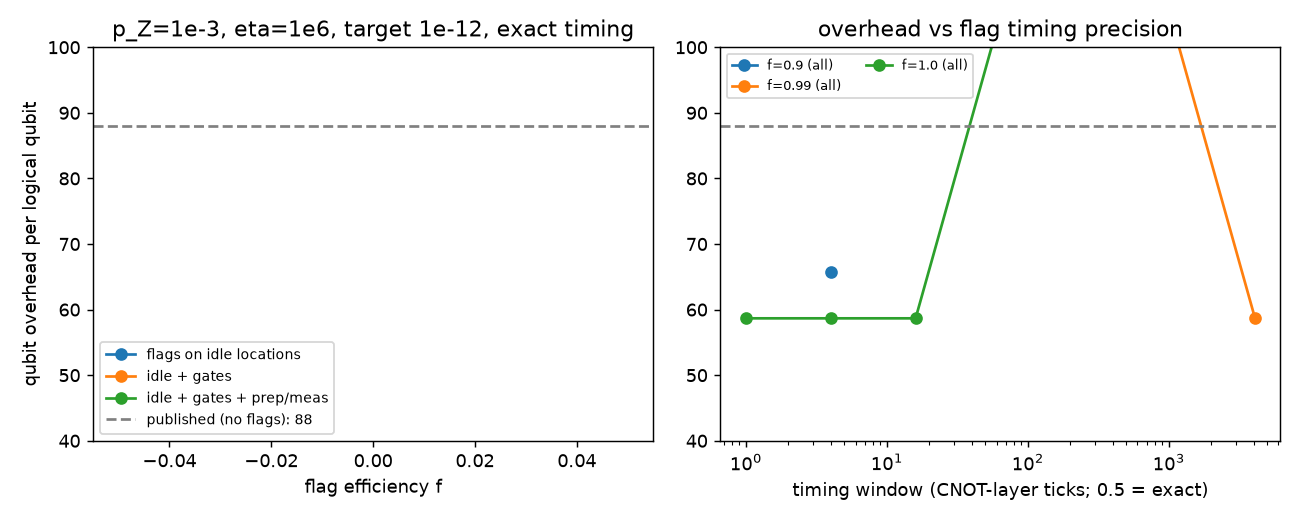
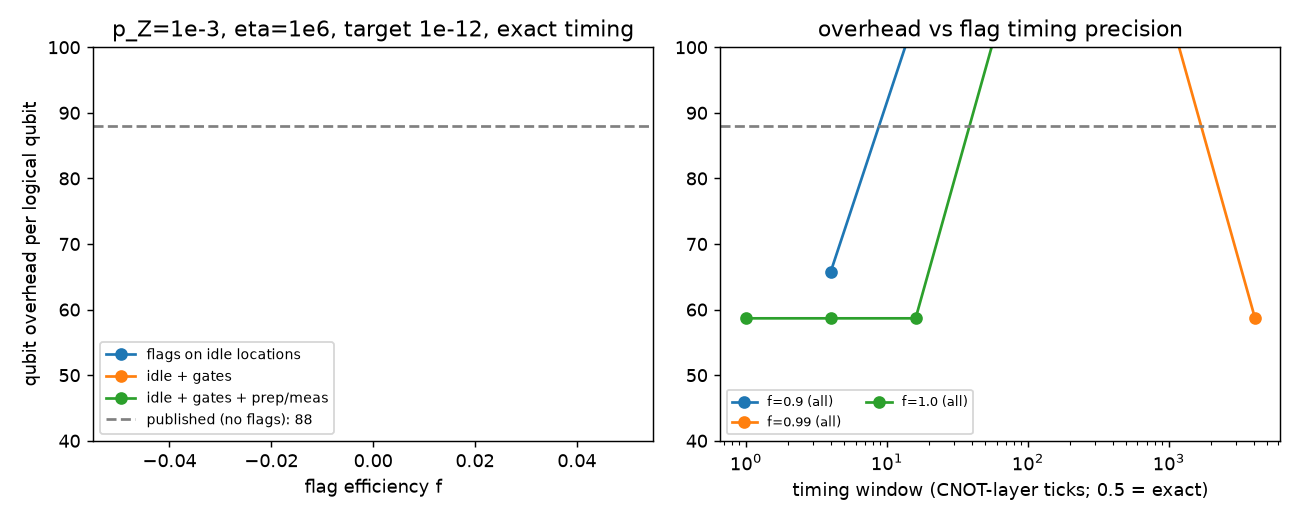
Results and analysis update

Changed region(s): [[0.5538, 0.0923, 0.7692, 0.2154], [0.5538, 0.7385, 0.7385, 0.8615]]

diff --git a/elevator/flags.py b/elevator/flags.py
@@ -424,3 +424,4 @@ class ExclusiveMleDecoder:
                 ywin.append(wi)
         x = mle_solve(self.H, w, det, ycols, ycost, ywin)
         return (self.L @ x) & 1
+

diff --git a/results/summary/frontier_this-work-pZL.md b/results/summary/frontier_this-work-pZL.md
@@ -5,20 +5,22 @@ Non-dominated in (overhead, p_L, flag efficiency f required, flag classes requir
 
 | overhead | code | d_Z | p_L | f | flags on | window (ticks) | false flags |
 |---|---|---|---|---|---|---|---|
-| 51.6 | [15,9,3] | 15 | 3.90e-13 | 1.0 | all | 4096 | 0 |
-| 51.6 | [15,9,3] | 15 | 2.70e-13 | 1.0 | all | 64 | 0 |
-| 51.6 | [15,9,3] | 15 | 3.46e-13 | 1.0 | all | 1024 | 0 |
-| 51.6 | [15,9,3] | 15 | 3.21e-13 | 1.0 | all | 256 | 0 |
-| 58.7 | [15,9,3] | 17 | 2.38e-13 | 0.99 | all | 4096 | 0 |
-| 58.7 | [15,9,3] | 17 | 6.73e-15 | 1.0 | all | 16 | 0 |
+| 51.6 | [15,9,3] | 15 | 9.20e-13 | 0.99 | idle | exact | 0 |
+| 51.6 | [15,9,3] | 15 | 2.01e-13 | 1.0 | all | 4096 | 0 |
+| 51.6 | [15,9,3] | 15 | 8.05e-14 | 1.0 | all | 64 | 0 |
+| 51.6 | [15,9,3] | 15 | 1.57e-13 | 1.0 | all | 1024 | 0 |
+| 51.6 | [15,9,3] | 15 | 1.31e-13 | 1.0 | all | 256 | 0 |
+| 58.7 | [15,9,3] | 17 | 2.33e-13 | 0.99 | all | 4096 | 0 |
+| 58.7 | [15,9,3] | 17 | 1.71e-15 | 1.0 | all | 16 | 0 |
 | 65.8 | [15,9,3] | 19 | 3.21e-13 | 0.9 | all | 4 | 0 |
-| 104.8 | [15,6,5] 2 anc | 19 | 3.02e-16 | 0.9 | all | 1024 | 0 |
-| 104.8 | [15,6,5] 2 anc | 19 | 3.02e-16 | 0.9 | all | 4096 | 0 |
-| 104.8 | [15,6,5] 2 anc | 19 | 3.00e-16 | 0.99 | all | 256 | 0 |
-| 104.8 | [15,6,5] 2 anc | 19 | 3.00e-16 | 0.99 | all | 1024 | 0 |
-| 104.8 | [15,6,5] 2 anc | 19 | 3.01e-16 | 0.99 | all | 4096 | 0 |
-| 104.8 | [15,6,5] 2 anc | 19 | 3.00e-16 | 0.99 | all | 1 | 0 |
-| 104.8 | [15,6,5] 2 anc | 19 | 3.00e-16 | 0.99 | all | 16 | 0 |
-| 104.8 | [15,6,5] 2 anc | 19 | 3.00e-16 | 1.0 | all | 256 | 0 |
-| 104.8 | [15,6,5] 2 anc | 19 | 3.00e-16 | 1.0 | all | 1024 | 0 |
-| 104.8 | [15,6,5] 2 anc | 19 | 3.00e-16 | 1.0 | all | 4096 | 0 |
+| 104.8 | [15,6,5] 2 anc | 19 | 1.73e-16 | 0.9 | all | 16 | 0 |
+| 104.8 | [15,6,5] 2 anc | 19 | 1.74e-16 | 0.9 | all | 1024 | 0 |
+| 104.8 | [15,6,5] 2 anc | 19 | 1.74e-16 | 0.9 | all | 4096 | 0 |
+| 104.8 | [15,6,5] 2 anc | 19 | 1.73e-16 | 0.99 | all | 256 | 0 |
+| 104.8 | [15,6,5] 2 anc | 19 | 1.73e-16 | 0.99 | all | 1024 | 0 |
+| 104.8 | [15,6,5] 2 anc | 19 | 1.73e-16 | 0.99 | all | 4096 | 0 |
+| 104.8 | [15,6,5] 2 anc | 19 | 1.73e-16 | 0.99 | all | 1 | 0 |
+| 104.8 | [15,6,5] 2 anc | 19 | 1.73e-16 | 0.99 | all | 16 | 0 |
+| 104.8 | [15,6,5] 2 anc | 19 | 1.73e-16 | 1.0 | all | 256 | 0 |
+| 104.8 | [15,6,5] 2 anc | 19 | 1.73e-16 | 1.0 | all | 1024 | 0 |
+| 104.8 | [15,6,5] 2 anc | 19 | 1.73e-16 | 1.0 | all | 4096 | 0 |

diff --git a/results/summary/phase_model.md b/results/summary/phase_model.md
@@ -9,7 +9,7 @@ Held-out test: the lowest-rate (largest d_Z) point at each p is left out of the 
 
 | p_Z | d_Z | measured per round [95% CI] | failures | predicted (held out) | ratio |
 |---|---|---|---|---|---|
-| 1.0e-03 | 9 | 1.33e-09 [1.15e-09, 1.53e-09] | 193 | 1.10e-09 | 1.21 |
+| 1.0e-03 | 9 | 1.33e-09 [1.16e-09, 1.53e-09] | 200 | 1.10e-09 | 1.21 |
 | 1.5e-03 | 9 | 8.21e-09 [7.10e-09, 9.50e-09] | 180 | 9.02e-09 | 0.91 |
 | 2.0e-03 | 11 | 1.97e-09 [1.68e-09, 2.31e-09] | 151 | 1.79e-09 | 1.10 |
 | 3.0e-03 | 13 | 1.91e-09 [1.47e-09, 2.47e-09] | 57 | 1.66e-09 | 1.15 |
@@ -57,12 +57,25 @@ All points against the paper's repetition-code fit 0.13 (25.02 p)^(0.99 (d+1)/2)
 
 ### Elevator X memory (noop reading, full sweep, BP+LSD) over (n_b/k) p_rep
 
-log c = -4.188 + -0.635 log p + 0.290 h
+log c = -4.366 + -0.663 log p + 0.298 h
 
 | code | d_Z | p_Z | p_ZL measured [95% CI] | (n_b/k) p_rep | c |
 |---|---|---|---|---|---|
 | 15_9_3 | 9 | 7.0e-03 | 6.93e-05 [6.33e-05, 7.59e-05] | 4.58e-05 | 1.51 |
-| 15_9_3 | 9 | 1.0e-02 | 3.48e-04 [3.33e-04, 3.63e-04] | 2.86e-04 | 1.22 |
+| 15_9_3 | 9 | 1.0e-02 | 3.48e-04 [3.33e-04, 3.63e-04] | 2.86e-04 | 1.21 |
+| 15_9_3 | 9 | 1.0e-02 | 3.10e-04 [2.68e-04, 3.57e-04] | 2.86e-04 | 1.08 |
 | 15_9_3 | 13 | 1.0e-02 | 4.21e-05 [3.60e-05, 4.92e-05] | 2.31e-05 | 1.82 |
-| 15_9_3 | 17 | 1.0e-02 | 8.57e-06 [6.78e-06, 1.08e-05] | 1.87e-06 | 4.60 |
-| 15_9_3 | 21 | 1.0e-02 | 1.26e-06 [4.90e-07, 3.24e-06] | 1.51e-07 | 8.37 |
+| 15_9_3 | 17 | 1.0e-02 | 8.40e-06 [6.78e-06, 1.04e-05] | 1.87e-06 | 4.50 |
+| 15_9_3 | 21 | 1.0e-02 | 1.47e-06 [6.74e-07, 3.21e-06] | 1.51e-07 | 9.77 |
+
+### Ancilla diagnostic: logical-ancilla and logical-operation noise switched off
+
+| d_Z | p_Z | p_ZL ancilla noise off [95% CI] | (n_b/k) p_rep | c without ancilla noise |
+|---|---|---|---|---|
+| 9 | 7.0e-03 | 4.42e-05 [3.77e-05, 5.19e-05] | 4.58e-05 | 0.97 |
+| 9 | 1.0e-02 | 2.78e-04 [2.39e-04, 3.23e-04] | 2.86e-04 | 0.97 |
+| 13 | 1.0e-02 | 2.84e-05 [2.42e-05, 3.32e-05] | 2.31e-05 | 1.23 |
+| 17 | 1.0e-02 | 1.64e-06 [7.49e-07, 3.57e-06] | 1.87e-06 | 0.88 |
+
+Two-component model: p_ZL k = n a p_rep(d,p) + n_anc g p_rep(d, kappa p), a = 1.11, g = 0.15, kappa = 1.82
+

diff --git a/results/summary/flags_main_this-work-pZL.md b/results/summary/flags_main_this-work-pZL.md
@@ -13,8 +13,10 @@ Central estimate (conservative: bit-flip rate at its 95% upper bound) and the ch
 | all | 4 | 0.9 | 0 | 65.8 | [15,9,3], 19 | 3.21e-13 | 65.8 |
 | all | 4 | 0.99 | 0 | 104.8 | [15,6,5] 2 anc, 19 | 1.79e-20 | 104.8 |
 | all | 4 | 1.0 | 0 | 58.7 | [15,9,3], 17 | 0.00e+00 | 58.7 |
+| all | 16 | 0.9 | 0 | 104.8 | [15,6,5] 2 anc, 19 | 1.78e-19 | 104.8 |
 | all | 16 | 0.99 | 0 | 104.8 | [15,6,5] 2 anc, 19 | 1.78e-20 | 104.8 |
 | all | 16 | 1.0 | 0 | 58.7 | [15,9,3], 17 | 0.00e+00 | 58.7 |
+| all | 64 | 0.9 | 0 | 104.8 | [15,6,5] 2 anc, 19 | 1.83e-18 | 104.8 |
 | all | 64 | 0.99 | 0 | 104.8 | [15,6,5] 2 anc, 19 | 7.07e-20 | 104.8 |
 | all | 64 | 1.0 | 0 | 51.6 | [15,9,3], 15 | 2.93e-14 | 51.6 |
 | all | 256 | 0.9 | 0 | 104.8 | [15,6,5] 2 anc, 19 | 3.48e-18 | 104.8 |
@@ -29,4 +31,4 @@ Central estimate (conservative: bit-flip rate at its 95% upper bound) and the ch
 | idle | exact | 0.5 | 0 | not reached | - | - | not reached |
 | idle | exact | 0.8 | 0 | not reached | - | - | not reached |
 | idle | exact | 0.9 | 0 | not reached | - | - | not reached |
-| idle | exact | 0.99 | 0 | not reached | - | - | not reached |
+| idle | exact | 0.99 | 0 | 51.6 | [15,9,3], 15 | 8.69e-13 | not reached |

diff --git a/results/summary/flags_main_paper-pZL.md b/results/summary/flags_main_paper-pZL.md
@@ -13,8 +13,10 @@ Central estimate (conservative: bit-flip rate at its 95% upper bound) and the ch
 | all | 4 | 0.9 | 0 | 65.8 | [15,9,3], 19 | 3.21e-13 | 65.8 |
 | all | 4 | 0.99 | 0 | 104.8 | [15,6,5] 2 anc, 19 | 1.79e-20 | 104.8 |
 | all | 4 | 1.0 | 0 | 58.7 | [15,9,3], 17 | 0.00e+00 | 58.7 |
+| all | 16 | 0.9 | 0 | 104.8 | [15,6,5] 2 anc, 19 | 1.78e-19 | 104.8 |
 | all | 16 | 0.99 | 0 | 104.8 | [15,6,5] 2 anc, 19 | 1.78e-20 | 104.8 |
 | all | 16 | 1.0 | 0 | 58.7 | [15,9,3], 17 | 0.00e+00 | 58.7 |
+| all | 64 | 0.9 | 0 | 104.8 | [15,6,5] 2 anc, 19 | 1.83e-18 | 104.8 |
 | all | 64 | 0.99 | 0 | 104.8 | [15,6,5] 2 anc, 19 | 7.07e-20 | 104.8 |
 | all | 64 | 1.0 | 0 | 104.8 | [15,6,5] 2 anc, 19 | 0.00e+00 | 104.8 |
 | all | 256 | 0.9 | 0 | 104.8 | [15,6,5] 2 anc, 19 | 3.48e-18 | 104.8 |

diff --git a/results/summary/bias_this-work-pZL.md b/results/summary/bias_this-work-pZL.md
@@ -7,7 +7,7 @@
 | 1.0e+05 | 1.0e-08 | - | - | - | - | - | - | - | - |
 | 2.5e+05 | 4.0e-09 | - | - | - | - | - | - | - | - |
 | 5.0e+05 | 2.0e-09 | - | - | - | - | - | - | - | - |
-| 1.0e+06 | 1.0e-09 | not reached | - | - | - | not reached | not reached | 104.8 ([15,6,5] 2 anc, 19) | 104.8 ([15,6,5] 2 anc, 19) |
+| 1.0e+06 | 1.0e-09 | not reached | - | - | - | not reached | 51.6 ([15,9,3], 15) | 104.8 ([15,6,5] 2 anc, 19) | 104.8 ([15,6,5] 2 anc, 19) |
 | 2.0e+06 | 5.0e-10 | - | - | - | - | - | - | - | - |
 | 5.0e+06 | 2.0e-10 | - | - | - | - | - | - | - | - |
 | 1.0e+07 | 1.0e-10 | - | - | - | - | - | - | - | - |

diff --git a/results/summary/frontier_paper-pZL.md b/results/summary/frontier_paper-pZL.md
@@ -8,6 +8,7 @@ Non-dominated in (overhead, p_L, flag efficiency f required, flag classes requir
 | 58.7 | [15,9,3] | 17 | 2.81e-13 | 0.99 | all | 4096 | 0 |
 | 58.7 | [15,9,3] | 17 | 4.99e-14 | 1.0 | all | 16 | 0 |
 | 65.8 | [15,9,3] | 19 | 3.23e-13 | 0.9 | all | 4 | 0 |
+| 104.8 | [15,6,5] 2 anc | 19 | 3.35e-15 | 0.9 | all | 16 | 0 |
 | 104.8 | [15,6,5] 2 anc | 19 | 3.35e-15 | 0.9 | all | 1024 | 0 |
 | 104.8 | [15,6,5] 2 anc | 19 | 3.35e-15 | 0.9 | all | 4096 | 0 |
 | 104.8 | [15,6,5] 2 anc | 19 | 3.35e-15 | 0.99 | all | 256 | 0 |
